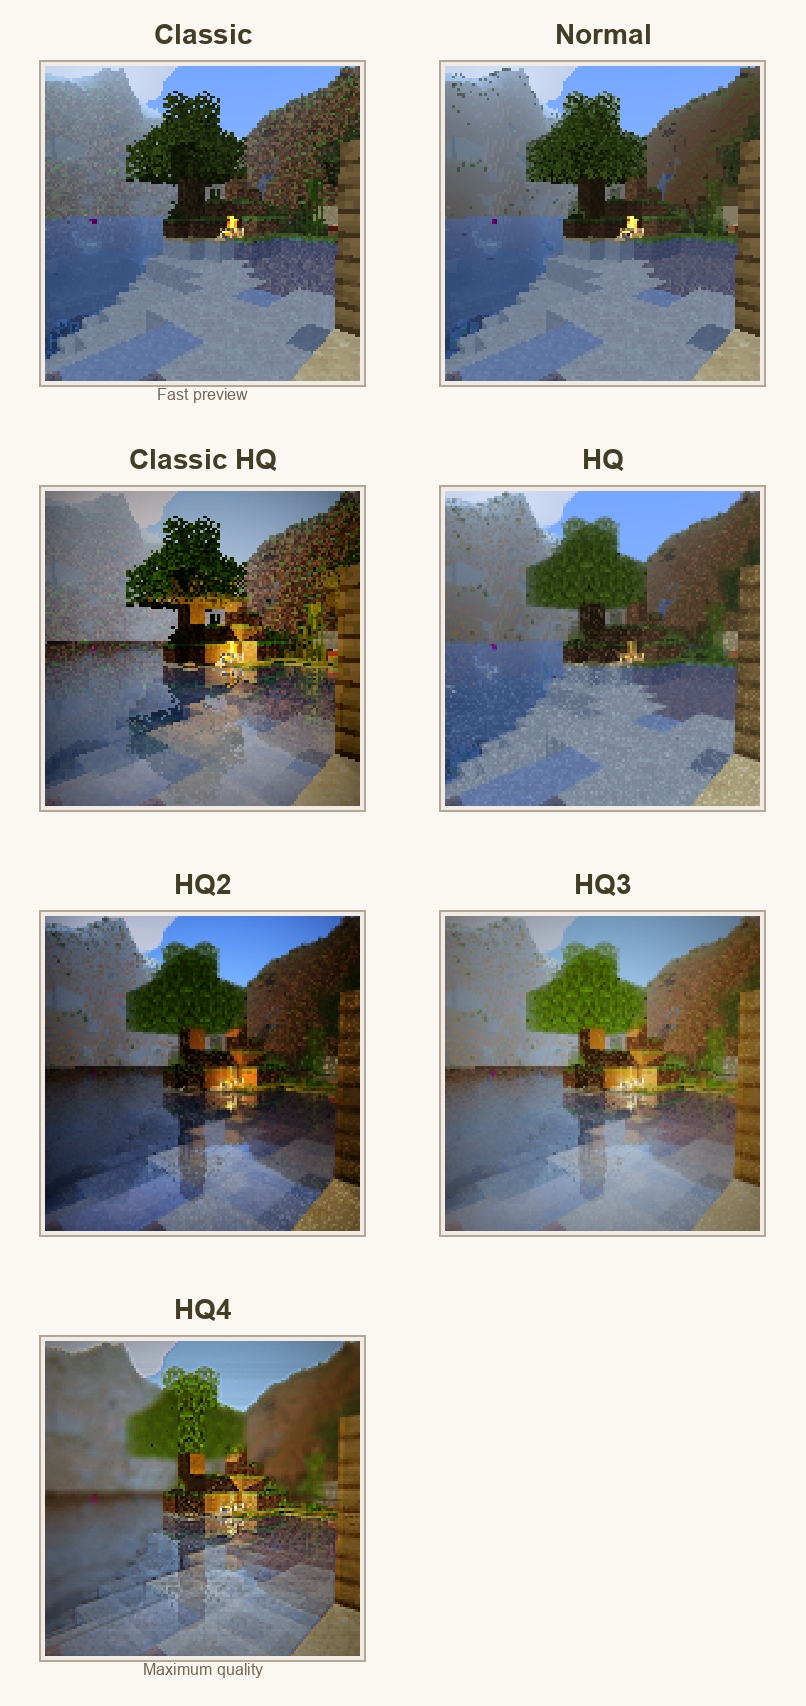
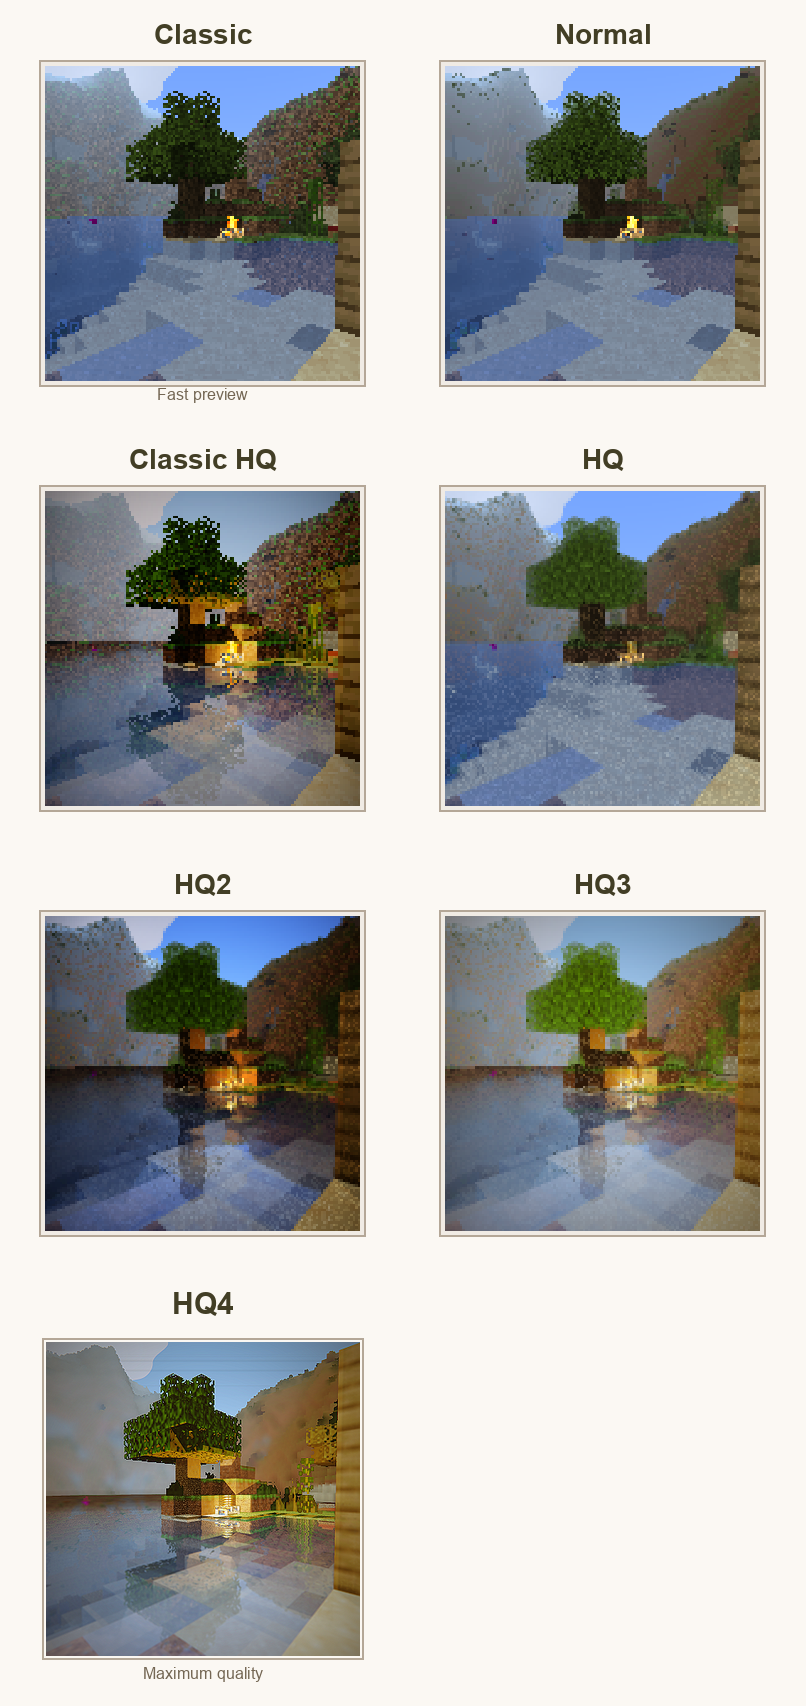
Use updated HQ4 images in camera settings

Changed region(s): [[0.031, 0.7456, 0.4653, 0.9941]]

diff --git a/docs/stylesheets/extra.css b/docs/stylesheets/extra.css
@@ -110,56 +110,6 @@
   column-gap: 2rem;
 }
 
-.md-typeset .sb-size-detail {
-  display: flex;
-  flex-direction: column;
-  align-items: center;
-  gap: 1.4rem;
-  margin: 1.3rem 0 2rem;
-}
-
-.md-typeset .sb-size-detail-card {
-  width: fit-content;
-  max-width: 100%;
-  margin: 0;
-  text-align: center;
-}
-
-.md-typeset .sb-size-detail-title {
-  margin: 0 0 0.45rem;
-  color: var(--sb-dark);
-  font-size: 1.35rem;
-  font-weight: 700;
-  line-height: 1.1;
-}
-
-.md-typeset .sb-size-detail-card img {
-  display: block;
-  height: auto;
-  max-width: 100%;
-  margin: 0 auto;
-  border: 1px solid var(--sb-mid);
-  border-radius: 6px;
-  background: var(--sb-panel);
-  box-shadow: 0 10px 26px rgba(32, 34, 12, 0.12);
-}
-
-.md-typeset .sb-size-detail-one img {
-  width: min(256px, 100%);
-}
-
-.md-typeset .sb-size-detail-three img {
-  width: min(768px, 100%);
-}
-
-.md-typeset .sb-size-detail-card figcaption {
-  margin: 0.45rem auto 0;
-  max-width: 34rem;
-  color: var(--sb-muted);
-  font-size: 0.82rem;
-  line-height: 1.45;
-}
-
 @media screen and (max-width: 42rem) {
   .md-typeset .sb-compact-list {
     columns: 1;

diff --git a/docs/camera-settings.md b/docs/camera-settings.md
@@ -42,7 +42,7 @@ Render profile changes the raytracer used for the shot. Lower profiles are faste
 
 <figure class="sb-figure">
   <img class="sb-map" src="../images/cinematic-mode-comparison.png" alt="Normal and HQ4 render comparison">
-  <figcaption>Normal is the practical default. HQ4 is for final shots where render time matters less than image quality.</figcaption>
+  <figcaption>Normal is the practical default. The HQ4 side uses a 3x3 render for final shots where render time matters less than image quality.</figcaption>
 </figure>
 
 ## Photo Size
@@ -62,23 +62,6 @@ Size controls how many Minecraft map items make up the photo. A single-map photo
 | 5x2 | 10 | Wide landscapes, banners, and panoramic wall displays. |
 
 Paper cost, when enabled, scales with the number of map tiles.
-
-### HQ4 Detail At Larger Sizes
-
-HQ4 changes the render quality. Photo size changes how much room the render has to show that detail. A 1x1 HQ4 photo is still a single 128x128 map, while a 3x3 HQ4 photo gives the same kind of render nine maps of space.
-
-<div class="sb-size-detail">
-  <figure class="sb-size-detail-card sb-size-detail-one">
-    <p class="sb-size-detail-title">1x1 HQ4</p>
-    <img class="sb-map" src="../images/hq4-size-detail-1x1.png" alt="1x1 HQ4 ShutterBug photo of a small lit island on water">
-    <figcaption>1 map, 128x128. Good for albums, inventory photos, and quick sharing.</figcaption>
-  </figure>
-  <figure class="sb-size-detail-card sb-size-detail-three">
-    <p class="sb-size-detail-title">3x3 HQ4</p>
-    <img class="sb-map" src="../images/hq4-size-detail-3x3.png" alt="3x3 HQ4 ShutterBug photo of the same scene with more detail">
-    <figcaption>9 maps, 384x384. Better for wall displays where reflections, lighting, and small blocks need room to read.</figcaption>
-  </figure>
-</div>
 
 ## FOV
 

diff --git a/docs/screenshots.md b/docs/screenshots.md
@@ -30,8 +30,6 @@ Use the same scene for each low/high pair so the difference is obvious.
 | `images/size-2x2.png` | `camera-settings.md` | The exported 2x2 photo size example. |
 | `images/size-3x3.png` | `camera-settings.md` | The exported 3x3 photo size example. |
 | `images/size-5x2.png` | `camera-settings.md` | The exported 5x2 photo size example. |
-| `images/hq4-size-detail-1x1.png` | `camera-settings.md` | A 1x1 HQ4 photo of the same scene used for the HQ4 size detail comparison. |
-| `images/hq4-size-detail-3x3.png` | `camera-settings.md` | A 3x3 HQ4 photo of the same scene used for the HQ4 size detail comparison. |
 | `images/fov-comparison.png` | `camera-settings.md` | A labeled sheet showing low, normal, and high FOV. |
 | `images/fov-low.png` | `camera-settings.md` | A low-FOV zoomed-in shot of one subject. |
 | `images/fov-normal.png` | `camera-settings.md` | A normal-FOV shot of the same location. |
